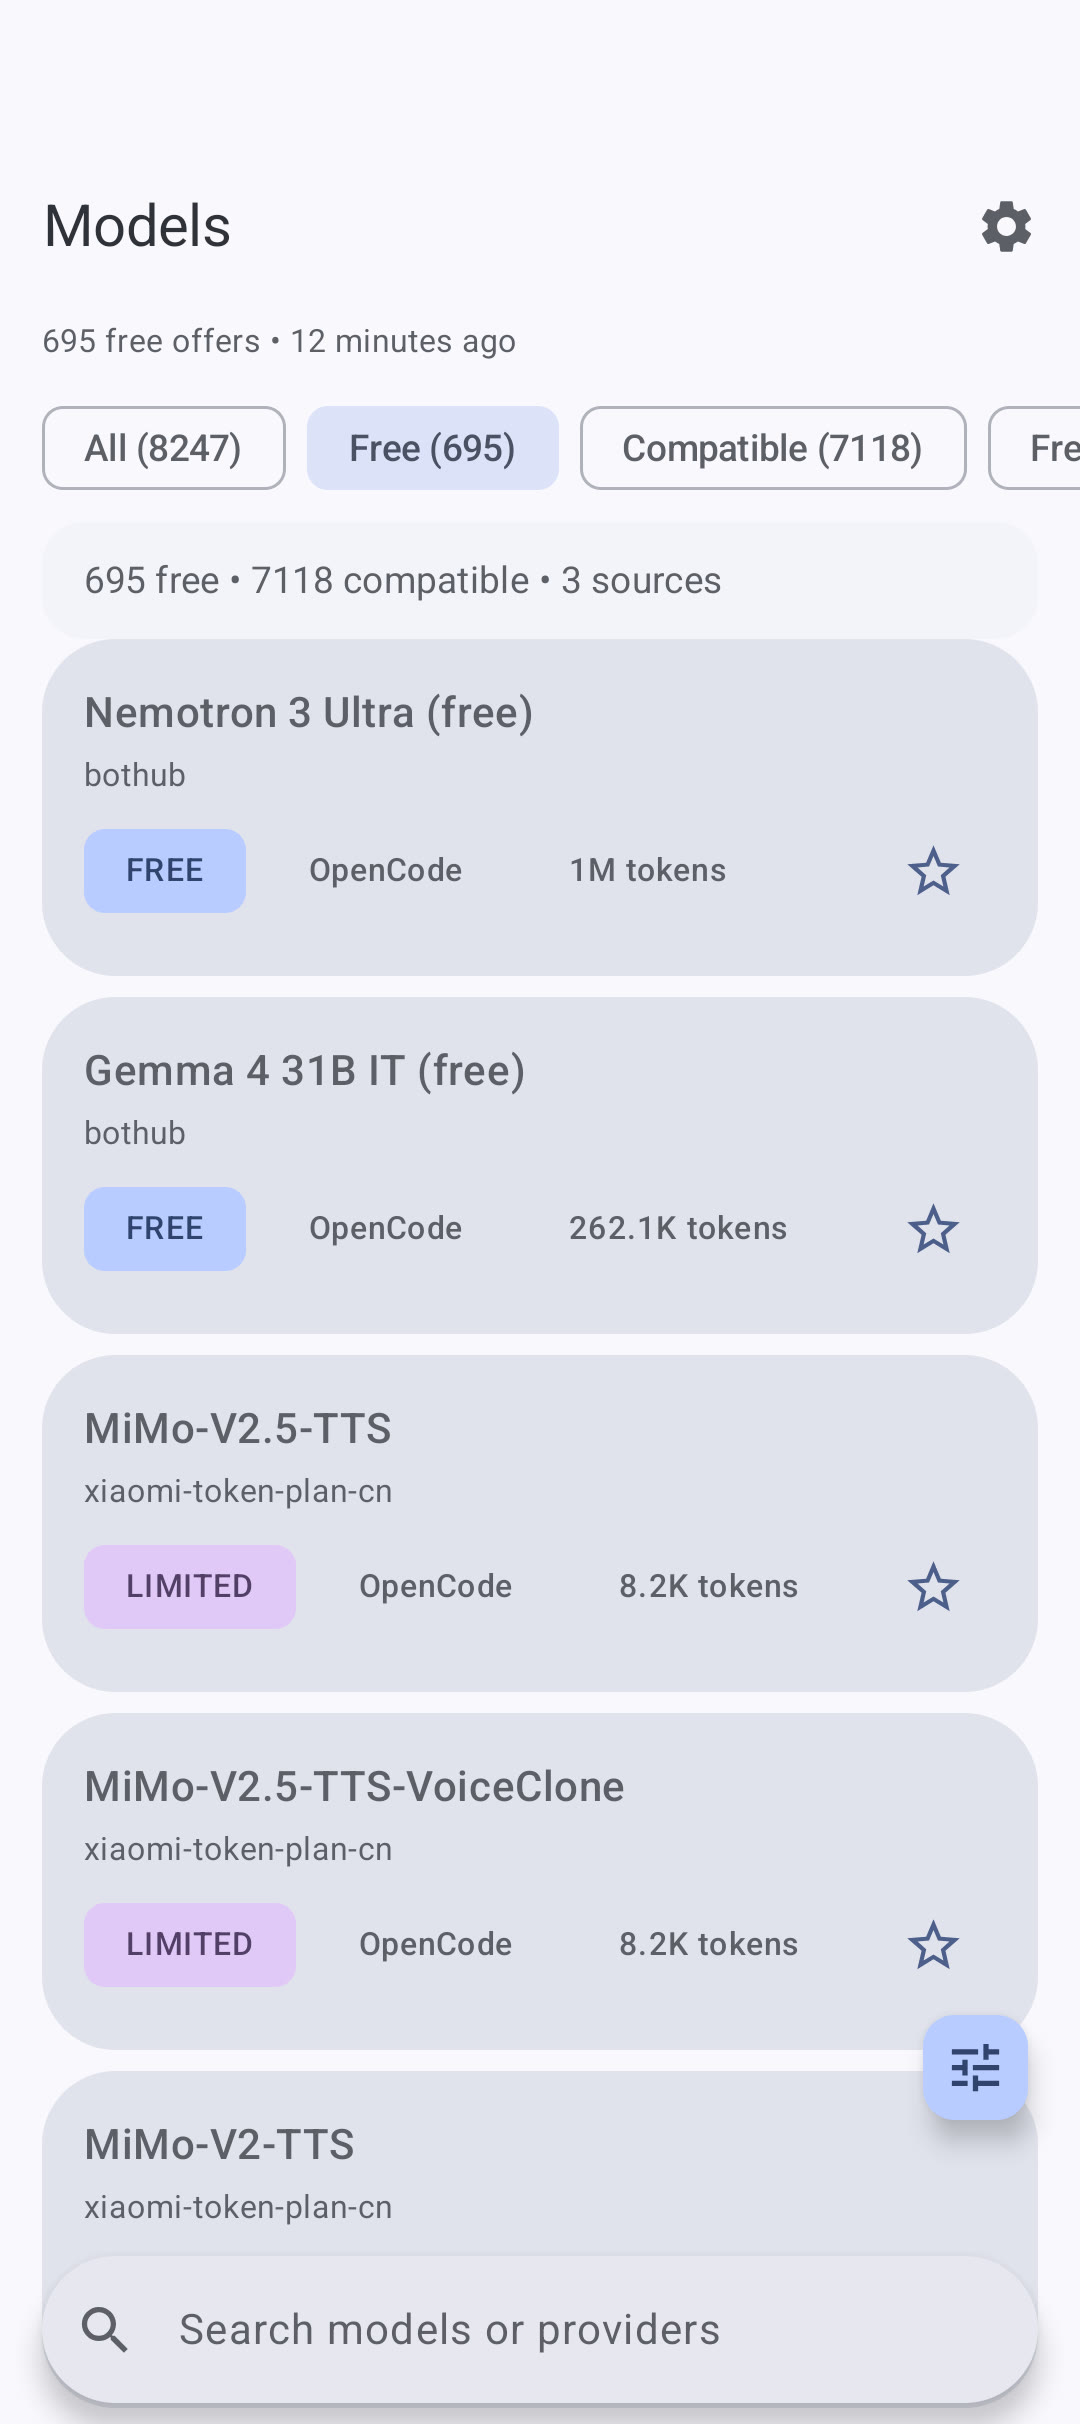
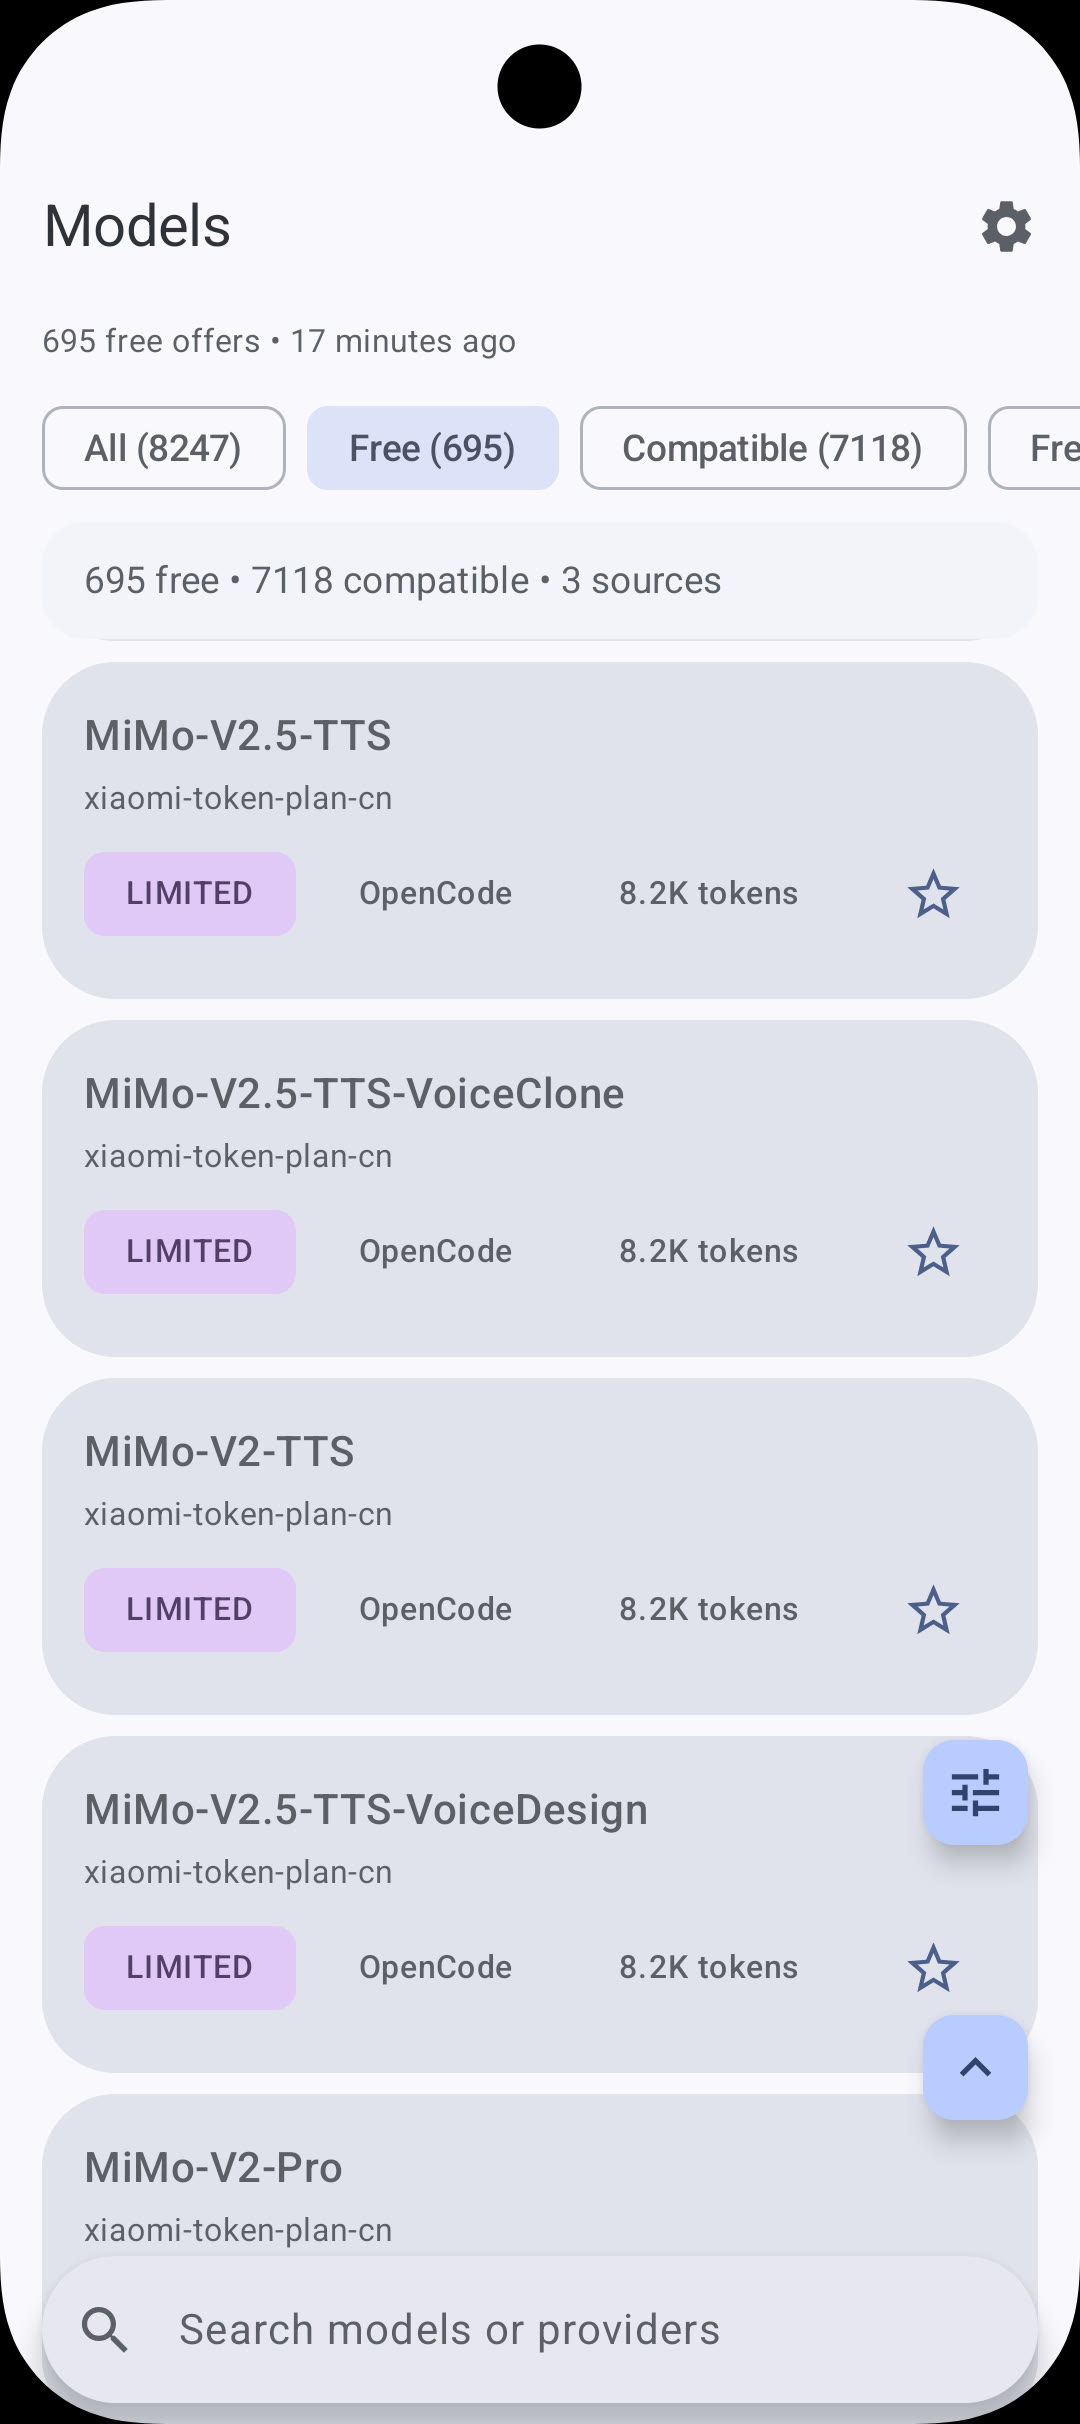
docs: use device captures for screenshots, add settings and sheet
Replace the four dashboard shots with captures from a synced device
and add the settings screen and the filter sheet (LiteLLM row, local
switch) to the README gallery and the landing page.

diff --git a/docs/index.html b/docs/index.html
@@ -161,6 +161,18 @@
           </button>
           <figcaption>Dark — offers list</figcaption>
         </figure>
+        <figure class="screenshot-card">
+          <button class="screenshot-button">
+            <img src="screenshots/settings.jpg" alt="Settings screen with appearance options" loading="lazy" decoding="async">
+          </button>
+          <figcaption>Settings</figcaption>
+        </figure>
+        <figure class="screenshot-card">
+          <button class="screenshot-button">
+            <img src="screenshots/filter-sheet.jpg" alt="Filter sheet with source options and local models switch" loading="lazy" decoding="async">
+          </button>
+          <figcaption>Filter sheet</figcaption>
+        </figure>
       </div>
     </section>
 

diff --git a/README.md b/README.md
@@ -37,6 +37,8 @@ by Anomaly Innovations, Inc.
 | <img src="screenshots/dashboard-light-free.jpg" width="270" alt="Dashboard in light mode with free filter"> | <img src="screenshots/dashboard-dark-free.jpg" width="270" alt="Dashboard in dark mode with free filter"> |
 | Light — all models | Dark — offers list |
 | <img src="screenshots/dashboard-light-all.jpg" width="270" alt="Dashboard in light mode showing all models"> | <img src="screenshots/dashboard-dark-offers.jpg" width="270" alt="Dashboard in dark mode showing offers"> |
+| Settings | Filter sheet |
+| <img src="screenshots/settings.jpg" width="270" alt="Settings screen with appearance options"> | <img src="screenshots/filter-sheet.jpg" width="270" alt="Filter sheet with source options and local models switch"> |
 
 ## Tech stack
 
